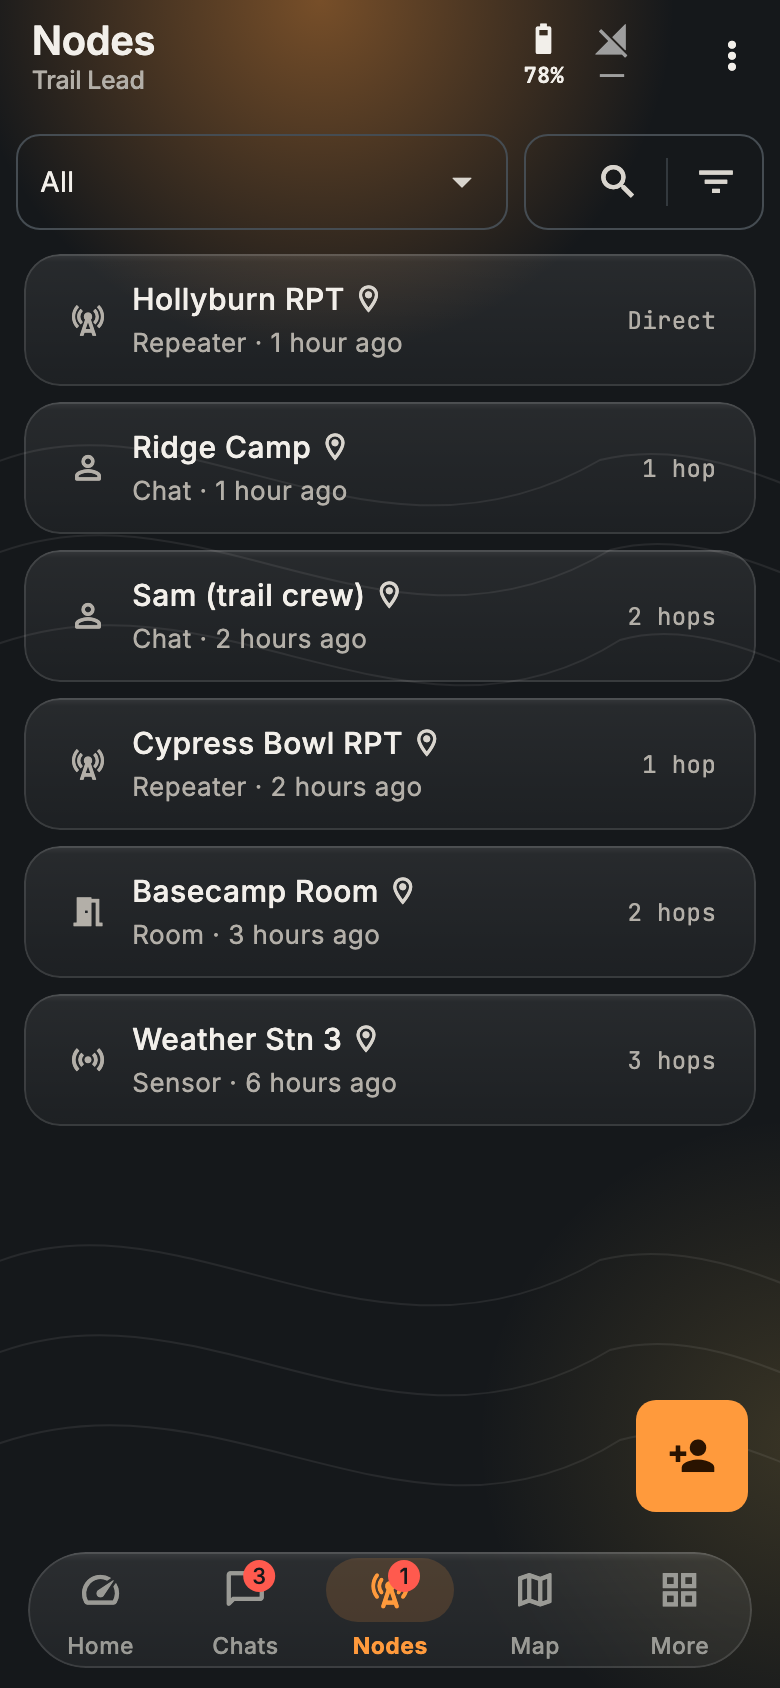
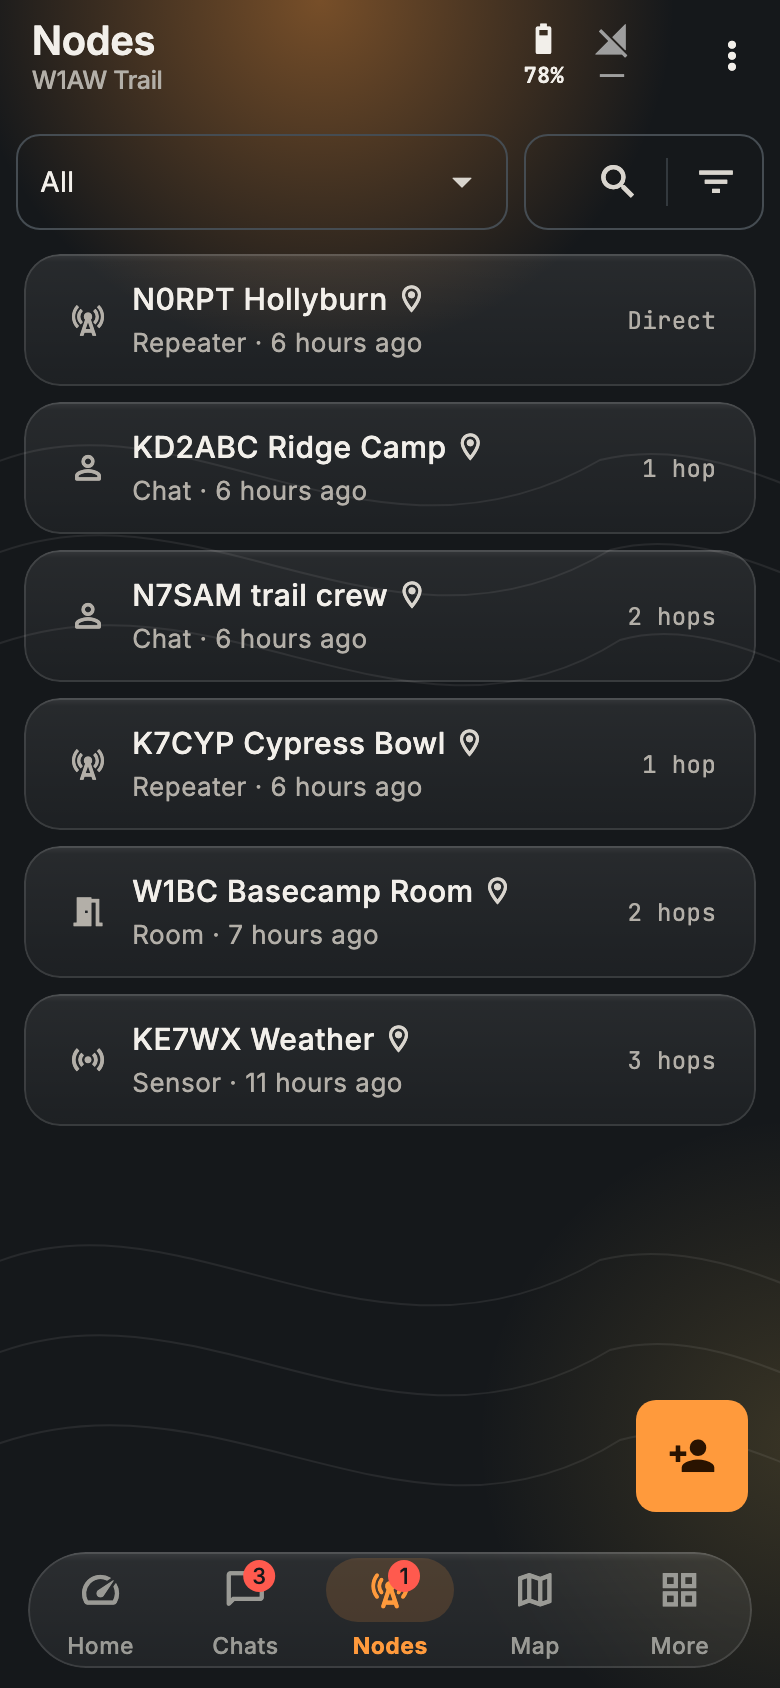
README for the ham edition, with new screenshots

diff --git a/test/preview/screens_preview_test.dart b/test/preview/screens_preview_test.dart
@@ -71,6 +71,10 @@ import 'package:meshcore_open/services/channel_directory_service.dart';
 import 'package:flutter_blue_plus/flutter_blue_plus.dart';
 import 'package:meshcore_open/screens/scanner_screen.dart';
 import 'package:shared_preferences/shared_preferences.dart';
+import 'package:meshcore_open/models/operator_profile.dart';
+import 'package:meshcore_open/models/radio_settings.dart';
+import 'package:meshcore_open/screens/licensed_operator_screen.dart';
+import 'package:meshcore_open/widgets/operator_setup_banner.dart';
 
 // Anchored to today so time-filtered screens (path graph) have data in range.
 final _today = DateTime.now();
@@ -97,12 +101,12 @@ Contact _contact(
 );
 
 final _contacts = [
-  _contact(1, 'Ridge Camp', advTypeChat, ago: 2),
-  _contact(2, 'Sam (trail crew)', advTypeChat, hops: 2, ago: 14),
-  _contact(3, 'Hollyburn RPT', advTypeRepeater, hops: 0, ago: 1),
-  _contact(4, 'Cypress Bowl RPT', advTypeRepeater, hops: 1, ago: 40),
-  _contact(5, 'Basecamp Room', advTypeRoom, hops: 2, ago: 90),
-  _contact(6, 'Weather Stn 3', advTypeSensor, hops: 3, ago: 300),
+  _contact(1, 'KD2ABC Ridge Camp', advTypeChat, ago: 2),
+  _contact(2, 'N7SAM trail crew', advTypeChat, hops: 2, ago: 14),
+  _contact(3, 'N0RPT Hollyburn', advTypeRepeater, hops: 0, ago: 1),
+  _contact(4, 'K7CYP Cypress Bowl', advTypeRepeater, hops: 1, ago: 40),
+  _contact(5, 'W1BC Basecamp Room', advTypeRoom, hops: 2, ago: 90),
+  _contact(6, 'KE7WX Weather', advTypeSensor, hops: 3, ago: 300),
 ];
 
 final _channels = [
@@ -208,9 +212,9 @@ class _PreviewConnector extends MeshCoreConnector {
   Future<List<ChannelMessage>> loadFullChannelHistory(Channel channel) async =>
       channel.index == 1 ? _pathHistory() : const [];
   @override
-  String? get selfName => 'Trail Lead';
+  String? get selfName => 'W1AW Trail';
   @override
-  String get deviceDisplayName => 'Trail Lead';
+  String get deviceDisplayName => 'W1AW Trail';
   @override
   Uint8List? get selfPublicKey => _key(99);
   @override
@@ -222,13 +226,13 @@ class _PreviewConnector extends MeshCoreConnector {
   @override
   int? get batteryPercent => 78;
   @override
-  String? get firmwareVersionString => 'v1.9.1';
+  String? get firmwareVersionString => 'v1.18.0-ham';
   @override
-  int? get currentFreqHz => 910525; // kHz, as radios report it
+  int? get currentFreqHz => 906875; // kHz, as radios report it
   @override
-  int? get currentBwHz => 62500;
+  int? get currentBwHz => 250000;
   @override
-  int? get currentSf => 7;
+  int? get currentSf => 10;
   @override
   int? get currentCr => 5;
   @override
@@ -267,7 +271,7 @@ class _PreviewScanConnector extends _PreviewConnector {
   MeshCoreConnectionState get state => MeshCoreConnectionState.scanning;
   @override
   List<ScanResult> get scanResults => [
-    _scan('MeshCore-Trail Lead', 'CF57FC24-9872-0AFC-7DEC-E36A387DE23D', -48),
+    _scan('MeshCore-W1AW Trail', 'CF57FC24-9872-0AFC-7DEC-E36A387DE23D', -48),
     _scan('MeshCore-Ridge Base', '7A10B2C3-1F4E-4D21-9A0B-5C6D7E8F9012', -71),
     _scan('MeshCore-Cabin Relay', 'E2B4C6D8-0A1C-4E3F-8B2D-4F6A8C0E2B44', -88),
   ];
@@ -521,6 +525,28 @@ void main() {
             'get wifi.ip': '> 192.168.4.20',
           }[c] ??
           '> ok',
+    ),
+    'licensed_operator': () => ChangeNotifierProvider(
+      create: (_) => OperatorProfileService()
+        ..save(
+          OperatorProfile(
+            callsign: 'W1AW',
+            licenseClass: LicenseClass.general,
+            acknowledgedAt: DateTime(2026, 11, 5),
+          ),
+        ),
+      child: const LicensedOperatorScreen(),
+    ),
+    'setup_banner': () => OperatorSetupBanner(
+      navigatorKey: GlobalKey(),
+      child: const BastionHomeScreen(),
+    ),
+    'radio_presets': () => Scaffold(
+      body: RadioPresetPicker(
+        indexes: [for (var i = 0; i < RadioSettings.presets.length; i++) i],
+        selected: 0,
+        suggested: 'US 33cm',
+      ),
     ),
     'companion_cli': () =>
         CompanionCliScreen(run: (c) async => 'v1.18.0 (Build: 15-Oct-2026)'),

diff --git a/lib/screens/licensed_operator_screen.dart b/lib/screens/licensed_operator_screen.dart
@@ -119,6 +119,7 @@ class _LicensedOperatorScreenState extends State<LicensedOperatorScreen> {
                       labelText: 'Licence class',
                       helperText:
                           'Every class has full 33 cm and 70 cm privileges',
+                      helperMaxLines: 2,
                       border: OutlineInputBorder(),
                     ),
                     items: [

diff --git a/README.md b/README.md
@@ -4,73 +4,67 @@
 
 # NOTORYX Core Ham
 
-Part of the **NOTORYX** off-grid communications family. **No Towers. No Limits.**
+**Off-grid LoRa mesh messaging for licensed US amateur radio operators.** Part of the **NOTORYX** family. **No Towers. No Limits.**
 
 > [!WARNING]
 > **Use only after a great deal of coordination.** NOTORYX Core Ham and its firmware transmit automatically on shared amateur bands, and every repeater relays under its operator's licence. Before any radio goes on the air, coordinate with your frequency coordinator, the local band plan and every operator in your area. Read **[the coordination guide](docs/licensed-operator/COORDINATION.md)** first.
 
-> NOTORYX Core Ham is the amateur radio edition of NOTORYX Core, for licensed operators. It installs as a separate app (`com.bastionmesh.ham`) next to NOTORYX Core. Licensed Operator Mode (call-sign ID, no encryption, Part 97 power settings) is in development and needs the NOTORYX Core Ham firmware; until then the app behaves like NOTORYX Core. See [docs/licensed-operator](docs/licensed-operator).
-
-**Off-grid messaging, check-ins and SOS over your MeshCore LoRa radio.**
-
-NOTORYX Core Ham turns your phone or computer and a [MeshCore](https://meshcore.io/) radio into a field communicator that works without cell service, Wi-Fi or the internet. Messages hop from radio to radio across the mesh.
+NOTORYX Core Ham is the amateur radio (FCC Part 97) edition of NOTORYX Core. Paired with radios running the **[NOTORYX Ham firmware](https://github.com/TheLogsAreScreaming/NOTORYX-Core-Ham-Firmware)**, it gives you MeshCore-style mesh messaging on 33 cm and 70 cm, with your call sign on every transmission and nothing encrypted. It installs as its own app (`com.bastionmesh.ham`), next to NOTORYX Core.
 
 <p align="center">
-  <img src="docs/screenshots/home.png" width="230" alt="Home: radio readouts, check-in, SOS and field tools on frosted glass">
-  <img src="docs/screenshots/chats.png" width="230" alt="Chats: channels and direct conversations">
-  <img src="docs/screenshots/nodes.png" width="230" alt="Nodes: repeaters, people, rooms and sensors heard on the mesh">
+  <img src="docs/screenshots/ham_setup_banner.png" width="230" alt="Home with the setup banner: finish licensed operator setup before transmitting">
+  <img src="docs/screenshots/ham_licensed_operator.png" width="230" alt="Licensed operator: call sign, licence class, coordination acknowledgment and connected radio checks">
+  <img src="docs/screenshots/ham_presets.png" width="230" alt="Radio presets: US 33 cm and 70 cm only">
 </p>
 
-> NOTORYX Core Ham is a pre-release. It is tested in automated tests and a mesh simulator but not yet on a wide range of phones and radios. MQTT bridging and LetsMesh sign-in are new and still need wider real-world testing. It is not a replacement for an emergency service or a satellite messenger. Please [report issues](../../issues).
+> **Status: in development.** The app and firmware pass automated tests and a mesh simulator, but have **not been tested on the air yet**. There are no public builds. Everything you send is readable by anyone: that's the law on amateur bands, not a bug.
 
-## Download
+## What makes it a ham app
 
-Get the latest build from **[NOTORYX Core Ham releases](https://github.com/TheLogsAreScreaming/NOTORYX-Core-Ham-Releases/releases)**. Each release lists what changed.
-
-| Platform | File | Notes |
+| | NOTORYX Core (Part 15) | NOTORYX Core Ham (Part 97) |
 |---|---|---|
-| Android (ARM64 phones) | `NOTORYX-Core-Ham-…-arm64-v8a.apk` | Signed with the existing release key |
-| macOS (Intel and Apple silicon, macOS 14+) | `NOTORYX-Core-Ham-…-macOS-universal.zip` | Not notarized by Apple (see below) |
+| Station ID | none | Your call sign ends every frame, including frames a repeater relays (§97.119) |
+| No call sign, no transmission | — | The radio stays silent until its name starts with a valid call sign |
+| Content | AES encrypted | Plain text; authentication kept (§97.113(a)(4)) |
+| Bands | regional presets | 33 cm (902–928 MHz) and 70 cm (420–450 MHz) only |
+| Repeater login | password sent encrypted | One-time proof; the password never goes on air |
+| Other traffic | — | Ordinary (Part 15) MeshCore traffic on the same channel is ignored |
+| Operator | — | **Licensed operator** setup: call sign, licence class and a coordination acknowledgment |
 
-iOS, Windows, Linux and web builds compile in CI but aren't released yet.
+The NOTORYX Ham firmware isn't compatible with ordinary MeshCore on the air. Every radio in your mesh, repeaters included, needs it.
 
-### Install on Android
+## Supported radios
 
-**Easiest: get updates automatically with [Obtainium](https://obtainium.imranr.dev/).** On your phone, install Obtainium, then tap the badge below. It adds NOTORYX Core Ham with pre-releases included and the Android APK picked out, and tells you when a new build is out.
+| Radio | Companion (connect the app) | Repeater |
+|---|---|---|
+| Heltec V4 | Bluetooth or USB | ✓ |
+| Heltec T114 | Bluetooth or USB | ✓ |
+| RAK WisBlock / WisMesh (RAK4631) | Bluetooth or USB | ✓ |
+| RAK WisMesh 1W Booster (RAK3401 + 13302) | Bluetooth or USB | ✓ |
+| Seeed Studio SenseCAP T1000-E | Bluetooth or USB | — |
+| UnitEng Station G2 | USB | ✓ |
+| UnitEng Station G3 | USB | ✓ |
 
-<p><a href="https://apps.obtainium.imranr.dev/redirect?r=obtainium://app/%7B%22id%22%3A%22com.bastionmesh.ham%22%2C%22url%22%3A%22https%3A%2F%2Fgithub.com%2FTheLogsAreScreaming%2FNOTORYX-Core-Ham-Releases%22%2C%22author%22%3A%22TheLogsAreScreaming%22%2C%22name%22%3A%22NOTORYX%20Core%20Ham%22%2C%22additionalSettings%22%3A%22%7B%5C%22includePrereleases%5C%22%3Atrue%2C%5C%22apkFilterRegEx%5C%22%3A%5C%22arm64-v8a%5C%5C%5C%5C.apk%24%5C%22%2C%5C%22autoApkFilterByArch%5C%22%3Atrue%2C%5C%22versionDetection%5C%22%3Atrue%7D%22%7D"><img src="branding/badge_obtainium.png" width="161" alt="Get it on Obtainium"></a></p>
-
-Or install the APK yourself:
-
-1. On your phone, open the release and download the `.apk`.
-2. Open the file. If Android asks, allow installs from your browser or file manager.
-3. Open NOTORYX Core Ham and allow **Bluetooth**, **location** and **notifications** when asked.
-
-**Upgrading from a test build:** builds before 10.0.0-rc.10 were signed with a temporary test key, and Android won't install a release-signed build over them. First make an encrypted backup (**More → Encrypted backup**), then uninstall the old app, install the new one and restore. You only do this once. Later versions install as normal updates.
-
-### Install on a Mac
-
-1. Download the `.zip` from the release and double-click it to unzip.
-2. Drag **NOTORYX Core Ham** into your **Applications** folder.
-3. Open it. The first time, macOS says it can't check the app for malicious software, because it isn't notarized by Apple.
-   - Click **Done**, then open **System Settings → Privacy & Security**.
-   - Scroll down and click **Open Anyway** next to "NOTORYX Core Ham was blocked", then confirm.
-   - You do this once for each new version.
-4. Allow Bluetooth when asked.
-
-Each release includes `SHA256SUMS-Android.txt` and `SHA256SUMS-macOS.txt` if you want to check your download (`shasum -a 256 <file>`).
+Station G2 and G3 companions are USB only: the Bluetooth build doesn't fit on those boards (the same as stock MeshCore v1.18.0). The firmware's transmit power is the radio chip's setting; boards with an amplifier put out more, so use the least power that works.
 
 ## Getting started
 
-1. **Connect your radio.** On the home screen, tap **Get started**, or go to **Connect radio**. NOTORYX Core Ham connects over Bluetooth, USB or TCP to a radio running MeshCore companion firmware, and reconnects to your last radio on its own.
-2. **Say hello.** Open **Chats** and send a message on a channel, or open someone in **Nodes** to message them directly.
-3. **Choose who gets your check-ins and SOS.** Tap **Check in: I'm OK** or hold **SOS**. The first time, NOTORYX Core Ham asks who should get them. You can change this anytime in **Plan your trip**.
-4. **Set your radio for your area.** **Settings → Radio settings → Presets** lists MeshCore's community presets (USA, Canada, EU/UK, Australia and more) with the one for your country suggested first.
-5. **Pick a look.** **Settings → Theme** offers Blaze (default), Topo night, Red light and Alpine day.
+1. **Coordinate first.** Read the [coordination guide](docs/licensed-operator/COORDINATION.md) and agree a channel with your frequency coordinator and local operators.
+2. **Flash the NOTORYX Ham firmware** on every radio. See the [firmware repository](https://github.com/TheLogsAreScreaming/NOTORYX-Core-Ham-Firmware) for builds and flashing.
+3. **Set up your operator.** Open **Settings → Licensed operator**, enter your call sign and licence class, read the guide and tick the acknowledgment. Until you do, a banner reminds you on every screen while a radio is connected.
+4. **Name your radio with your call sign.** The Licensed operator page offers **Set to W1AW** (with your call); you can add a suffix like `W1AW-2` or `W1AW Base`.
+5. **Pick the agreed channel.** **Settings → Radio settings → Presets** starts with **US 33cm**, the firmware default.
+6. **Start low.** Use the least transmit power that works, and do an RF exposure evaluation before running higher power.
 
 The tabs at the bottom are **Home**, **Chats**, **Nodes**, **Map** and **More**. Home is where check-in, SOS and your radio's readings live; **More** holds every tool and setting, with a search box.
 
+## Downloads
+
+None yet. Builds will appear in **[NOTORYX-Core-Ham-Releases](https://github.com/TheLogsAreScreaming/NOTORYX-Core-Ham-Releases)** once the firmware and app pass testing on real radios.
+
 ## Features
+
+Everything from NOTORYX Core, working over plain-text ham frames:
 
 ### Safety and trips
 - **SOS:** hold for 2 seconds to send your radio's position to your trip contacts (and an optional channel). It repeats every 5 minutes until someone replies or you stop it, and **I'm safe** sends an all-clear.
@@ -81,7 +75,7 @@ The tabs at the bottom are **Home**, **Chats**, **Nodes**, **Map** and **More**.
 - **Android home-screen widget:** radio status, battery and unread count, with one-tap Check in and SOS.
 
 ### Messaging
-- Direct and channel messages with delivery status, reactions, GIFs and image messages. Tapping a notification opens that chat.
+- Direct and channel messages with delivery status, reactions and GIFs, up to 152 characters. Tapping a notification opens that chat. (Picture messages are off for now: they don't fit in ham frames yet.)
 - **Find channels:** a directory of public hashtag channels (local ones first), channels heard on air that you haven't joined, and **Active online**: the #channels an online analyzer has seen in use, with one-tap Join.
 - **Message search**, per-chat **drafts**, **read aloud** and on-device translation.
 - **Share your position or a contact** from the message box. Received contacts can be added in one tap.
@@ -99,7 +93,7 @@ The tabs at the bottom are **Home**, **Chats**, **Nodes**, **Map** and **More**.
 
 ### Your radio
 - **Sensors on Home:** your radio's own readings (battery voltage, temperatures, GPS, light and whatever else it reports).
-- **Radio presets:** MeshCore's community catalogue with search and a suggestion for your country. Choosing one keeps your transmit power. Local mesh settings (for example Philadelphia's) are offered when your radio is in that area; see [adding your area](#add-your-areas-mesh-settings).
+- **Radio presets:** US 33 cm (906.875 MHz, the firmware default), 33 cm Long Range, 33 cm Fast, US 70 cm and off-grid 33/70 cm. Frequency fields only accept 420–450 and 902–928 MHz. Choosing a preset keeps your transmit power. Coordinated local settings can be offered by area; see [adding your area](#add-your-areas-mesh-settings).
 - **Send your advert** zero-hop (only radios that hear you directly) or flooded across the mesh.
 - Connections dashboard, live radio stats and a noise-floor chart, adjustable refresh rate and battery saver.
 - Command line and Wi-Fi setup for your own radio. With permission, you can also use a trusted contact's command line.
@@ -112,6 +106,7 @@ The tabs at the bottom are **Home**, **Chats**, **Nodes**, **Map** and **More**.
 - **Field guide**, encrypted backup and app-icon shortcuts.
 
 ### MQTT bridge (optional)
+- **Think before bridging.** Linking a ham mesh to the internet raises third-party traffic questions (§97.115); the [coordination guide](docs/licensed-operator/COORDINATION.md) covers it. Only frames with a station ID are used, so encrypted Part 15 traffic from other observers is ignored.
 - **Several brokers at once** over TLS or secure WebSocket, with a Wi-Fi-only option and an offline queue that sends when you're back online. Broker passwords are kept in the system keychain.
 - **Live packet feed.** Channel messages that reached you only over the internet are marked **via MQTT**, and never count as radio repeats.
 - **Observer sharing** in the community `meshcoretomqtt` format. It's off until you turn it on, and direct messages and your own traffic each need a separate opt-in.
@@ -123,40 +118,40 @@ The tabs at the bottom are **Home**, **Chats**, **Nodes**, **Map** and **More**.
 - Available in 18 languages.
 
 <p align="center">
+  <img src="docs/screenshots/nodes.png" width="200" alt="Nodes: stations heard on the mesh, named with call signs">
   <img src="docs/screenshots/more.png" width="200" alt="More: every tool and setting, searchable">
-  <img src="docs/screenshots/home_alpine_day.png" width="200" alt="Alpine day theme">
-  <img src="docs/screenshots/home_red_light.png" width="200" alt="Red light theme">
+  <img src="docs/screenshots/settings.png" width="200" alt="Settings with the Licensed operator card">
 </p>
 
 <p align="center">
+  <img src="docs/screenshots/home_alpine_day.png" width="200" alt="Alpine day theme">
   <img src="docs/screenshots/routes.png" width="200" alt="Route Intelligence">
   <img src="docs/screenshots/path_graph.png" width="200" alt="Path graph showing how messages reach you">
-  <img src="docs/screenshots/settings.png" width="200" alt="Settings">
 </p>
 
 ## Add your area's mesh settings
 
-When a local mesh agrees on new radio settings, NOTORYX Core Ham can offer them to everyone nearby. The live list is [`regional_presets.json` in NOTORYX-Core-Ham-Releases](https://github.com/TheLogsAreScreaming/NOTORYX-Core-Ham-Releases/blob/main/regional_presets.json), which NOTORYX Core Ham checks every 12 hours. The app also bundles a copy, [`assets/regional_presets.json`](assets/regional_presets.json), for first launch and offline use; update it to match the live list before each release.
+NOTORYX Core Ham can offer a coordinated channel to everyone in an area. The live list is [`regional_presets.json` in NOTORYX-Core-Ham-Releases](https://github.com/TheLogsAreScreaming/NOTORYX-Core-Ham-Releases/blob/main/regional_presets.json), checked every 12 hours; the app bundles a copy, [`assets/regional_presets.json`](assets/regional_presets.json), for offline use. It's empty for now. Only ham-band entries are accepted, and Part 15 MeshCore meshes don't belong here.
 
-To add or update an area, [open an issue in NOTORYX-Core-Ham-Releases](https://github.com/TheLogsAreScreaming/NOTORYX-Core-Ham-Releases/issues/new). Each entry has:
+To add an area your frequency coordinator has agreed, [open an issue in NOTORYX-Core-Ham-Releases](https://github.com/TheLogsAreScreaming/NOTORYX-Core-Ham-Releases/issues/new). Each entry looks like this:
 
 ```json
 {
-  "id": "us-philadelphia",
-  "name": "Philadelphia",
+  "id": "us-example",
+  "name": "Example County",
   "center": [39.9526, -75.1652],
-  "radiusKm": 100,
-  "frequencyMHz": 919.5,
-  "bandwidthKHz": 500,
+  "radiusKm": 60,
+  "frequencyMHz": 906.875,
+  "bandwidthKHz": 250,
   "spreadingFactor": 10,
   "codingRate": 5,
-  "pathHashBytes": 2,
-  "updated": "2026-10-17",
-  "notes": "Where this comes from and anything people should know."
+  "pathHashBytes": 1,
+  "updated": "2026-11-05",
+  "notes": "Who coordinated this channel, and anything operators should know."
 }
 ```
 
-Please say in `notes` where the settings come from. Change `updated` whenever the settings change: that's what triggers the "settings changed" notification.
+Say in `notes` who agreed the channel. Change `updated` whenever the settings change: that's what triggers the "settings changed" notification.
 
 ## Building from source
 
@@ -192,6 +187,8 @@ flutter test
 - `lib/services/`: field ops, coverage, routing, MQTT, notifications and other services
 - `lib/models/`, `lib/storage/`: data and persistence
 - `lib/theme/`: themes and colors
+- `lib/utils/amateur_radio.dart`: ham frame handling, call-sign and band checks shared with the firmware
+- `docs/licensed-operator/`: the coordination guide and the Part 97 feasibility notes
 - `test/`: unit and widget tests; `test/preview/` renders screenshots (`PREVIEW_OUT=dir flutter test test/preview`, with `PREVIEW_THEME=alpine_day` or `red_light` for other themes)
 
 ## Contributing
@@ -202,7 +199,7 @@ Bug reports, feature requests and pull requests are welcome. Use the **[Issues](
 
 NOTORYX Core Ham is an independent community app. It is not an official MeshCore app and doesn't imply endorsement by MeshCore. For MeshCore itself, see [meshcore.io](https://meshcore.io/).
 
-NOTORYX Core Ham builds on the open-source [MeshCore Open](https://github.com/zjs81/meshcore-open) project. License text and third-party notices are in [`LICENSE`](LICENSE), [`THIRD_PARTY_NOTICES.md`](THIRD_PARTY_NOTICES.md) and the app's Open source licenses screen.
+NOTORYX Core Ham is the amateur edition of NOTORYX Core and builds on the open-source [MeshCore Open](https://github.com/zjs81/meshcore-open) project. License text and third-party notices are in [`LICENSE`](LICENSE), [`THIRD_PARTY_NOTICES.md`](THIRD_PARTY_NOTICES.md) and the app's Open source licenses screen.
 
 ## License
 
